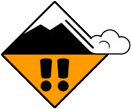
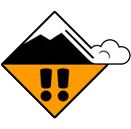
Agrandissement des images

diff --git a/index.html b/index.html
@@ -219,7 +219,7 @@
               risqueMaxi = risqueMaxi == 5 ? 4 : risqueMaxi;
               var iconeInformation = L.icon({
                 iconUrl: urlBack + `assets/risque${risqueMaxi}.png`,
-                iconSize: [20, 20],
+                iconSize: [40, 40],
                 iconAnchor: [10, 10],
               });
 
